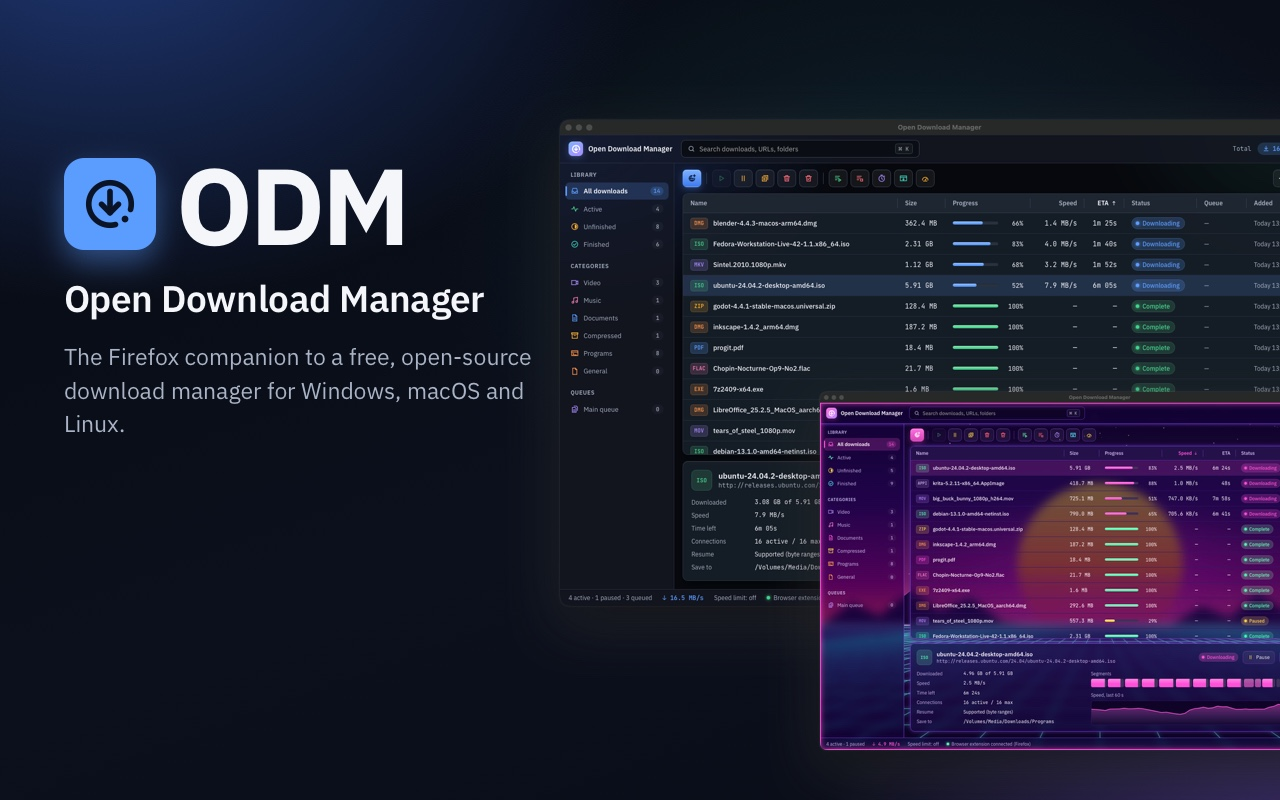
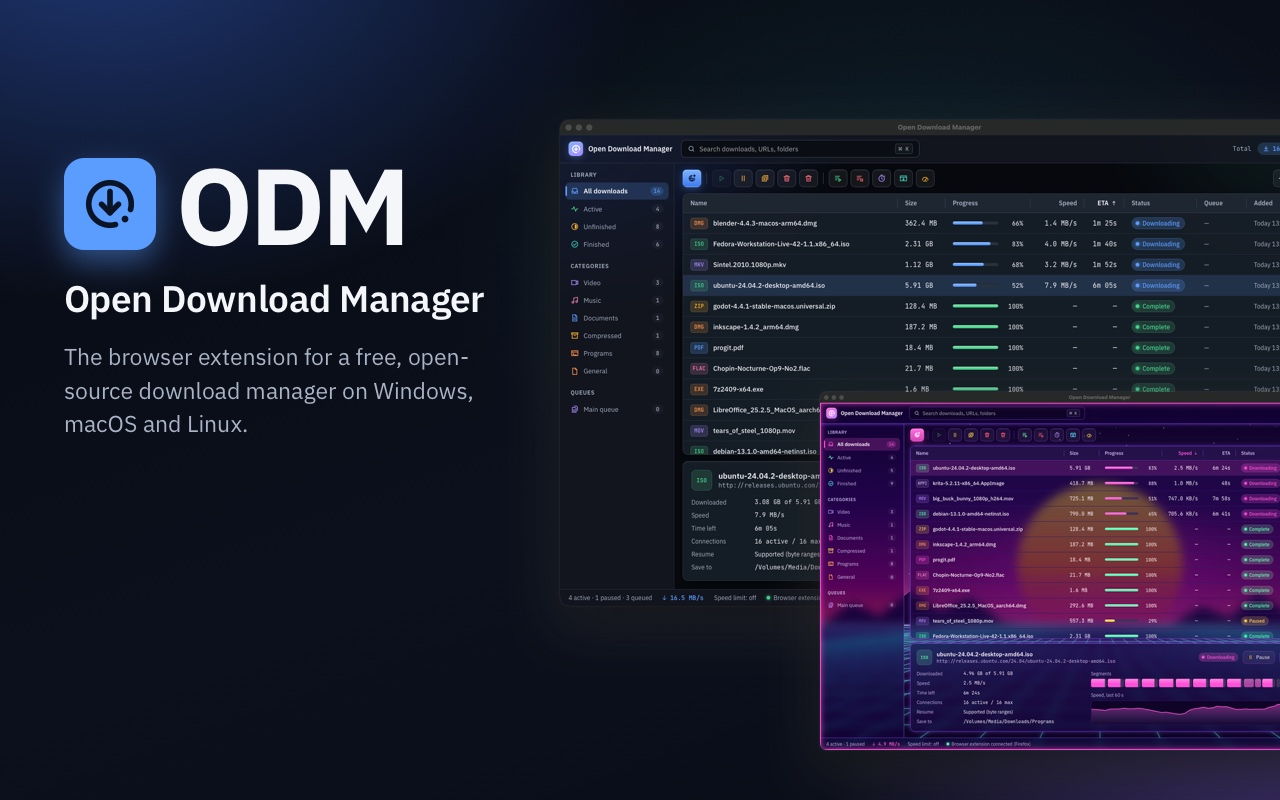
Store images: say "your browser", not Firefox
The extension is for Firefox and Chromium browsers. The overview and
popup screenshots no longer name Firefox in their text, and the popup
screenshot comes in a Firefox and a Chromium version (the popup itself
names the browser it runs in).

Changed region(s): [[0.0312, 0.4375, 0.4062, 0.5625]]

diff --git a/extension/store/README.md b/extension/store/README.md
@@ -3,6 +3,6 @@
 Pictures for the extension's pages on addons.mozilla.org and the Chrome Web Store.
 
 - `icon-128.png`: the add-on icon.
-- `screenshot-1-overview.jpg` to `screenshot-4-themes.jpg`: 1280 × 800 screenshots, in the order they should appear.
+- `screenshot-1-overview.jpg` to `screenshot-4-themes.jpg`: 1280 × 800 screenshots, in the order they should appear. The second one comes in two versions: `screenshot-2-popup-firefox.jpg` for addons.mozilla.org and `screenshot-2-popup-chromium.jpg` for the Chrome Web Store and Edge Add-ons. They differ only in the browser the popup names.
 
-The popup in `screenshot-2-popup.jpg` is the extension's own popup page drawn with sample data. The app windows are screenshots of version 0.2.0 with demo downloads.
+The popup in the second screenshot is the extension's own popup page drawn with sample data. The app windows are screenshots of version 0.2.0 with demo downloads.
